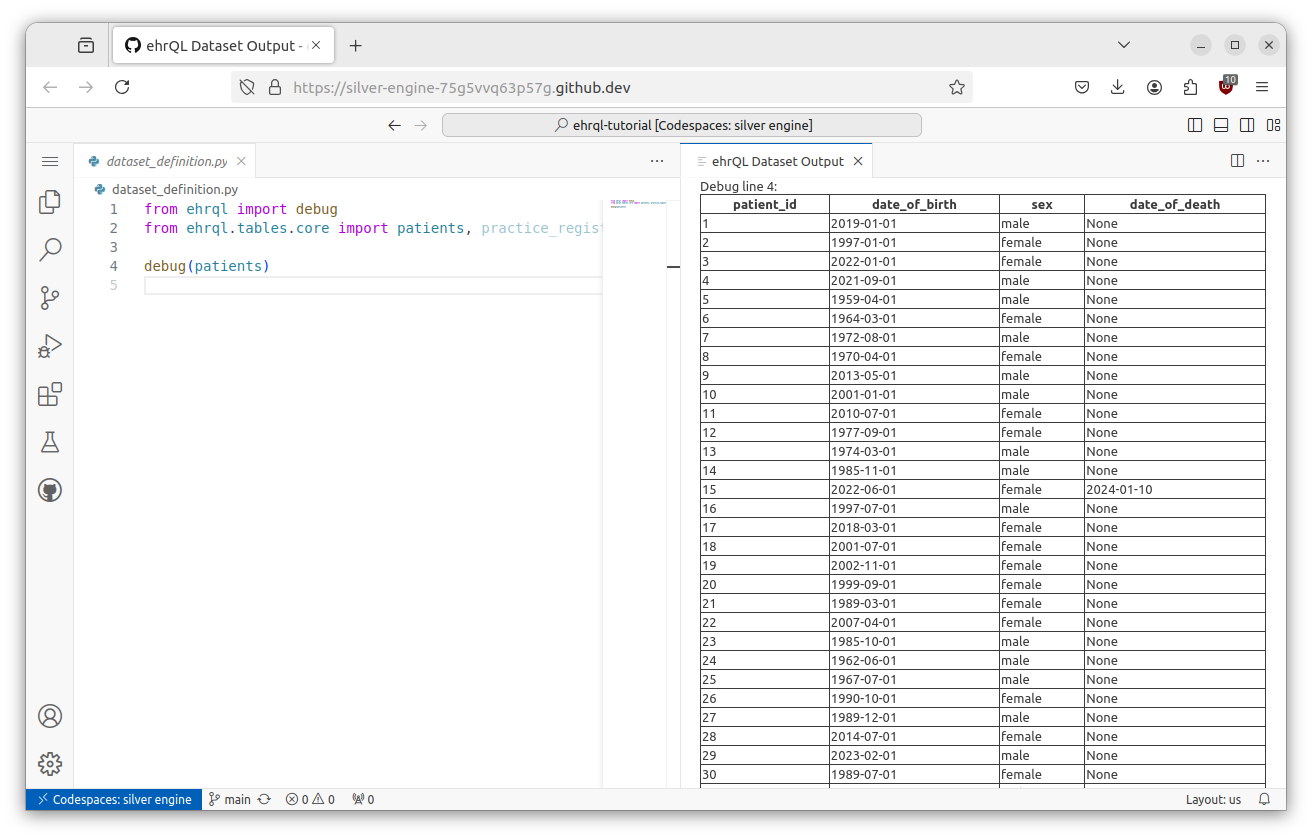
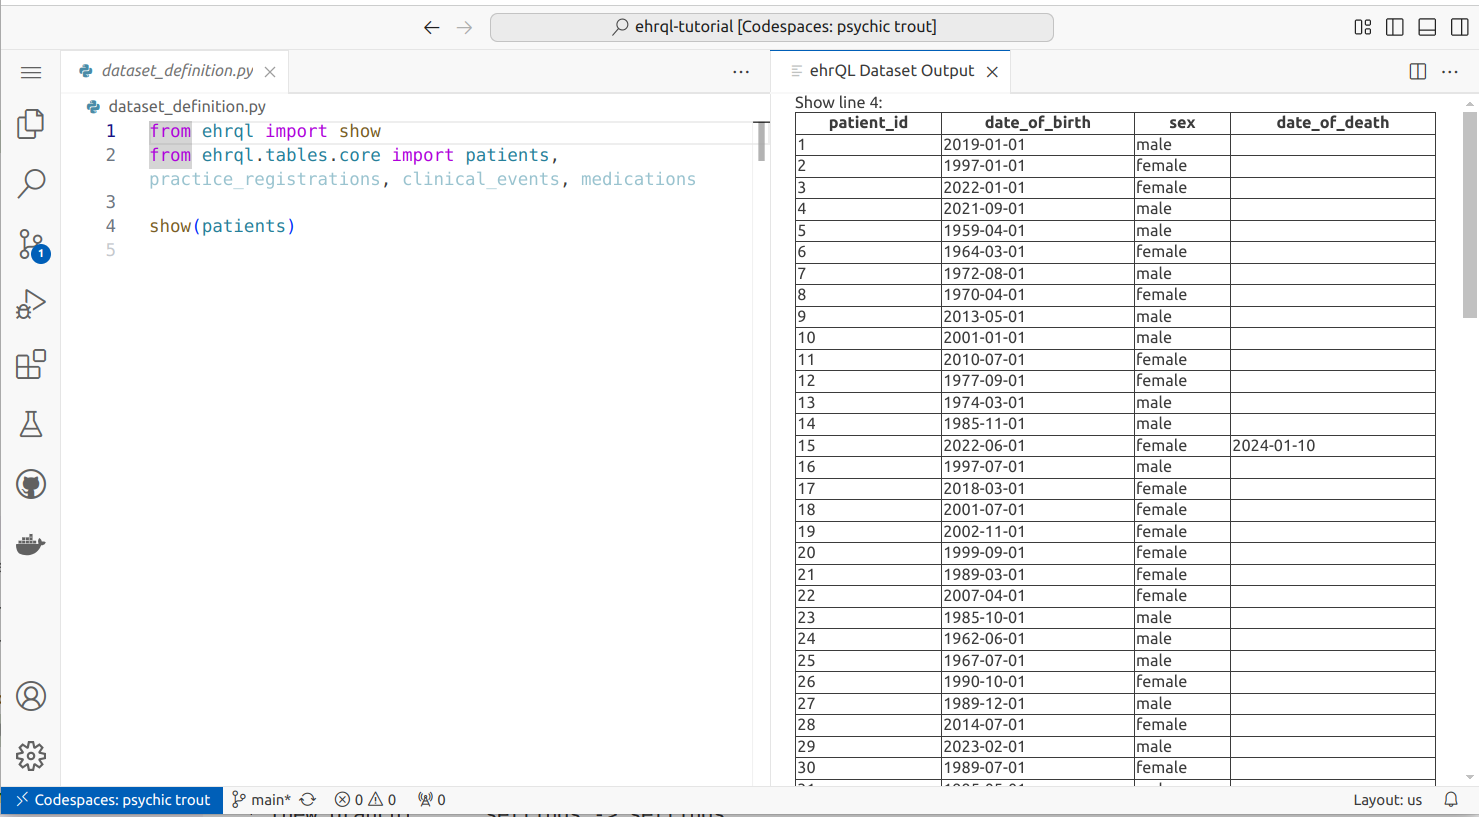
Update screenshots and references to debug in tutorial

Changed region(s): [[0.0, 0.0, 1.0, 1.0]]

diff --git a/docs/tutorial/setting-up/index.md b/docs/tutorial/setting-up/index.md
@@ -32,9 +32,11 @@ After a minute or two you'll see a screen that looks like this:
 
     ![Enhanced Tracking Protection settings](enhanced-tracking-protection.png)
 
-You can dismiss the notification in the bottom right, and close the terminal tab by clicking on the cross icon halfway up the screen on the right hand side.
+You can dismiss any notifications, and close the terminal tab by clicking on the cross icon halfway up the screen on the right hand side.
 
-To make sure everything's working correctly, open `dataset_definition.py` by clicking on it in the _Explorer_ tab on the left hand side, and then click the _Debug ehrQL_ button in the bottom right corner.
+To make sure everything's working correctly, open `dataset_definition.py` by clicking on it in the _Explorer_ tab on the left hand side, and then click the _Run_ button.
+
+![Run button](run-button.png)
 
 You should see a new window showing a table showing the contents of the `patients` table:
 
